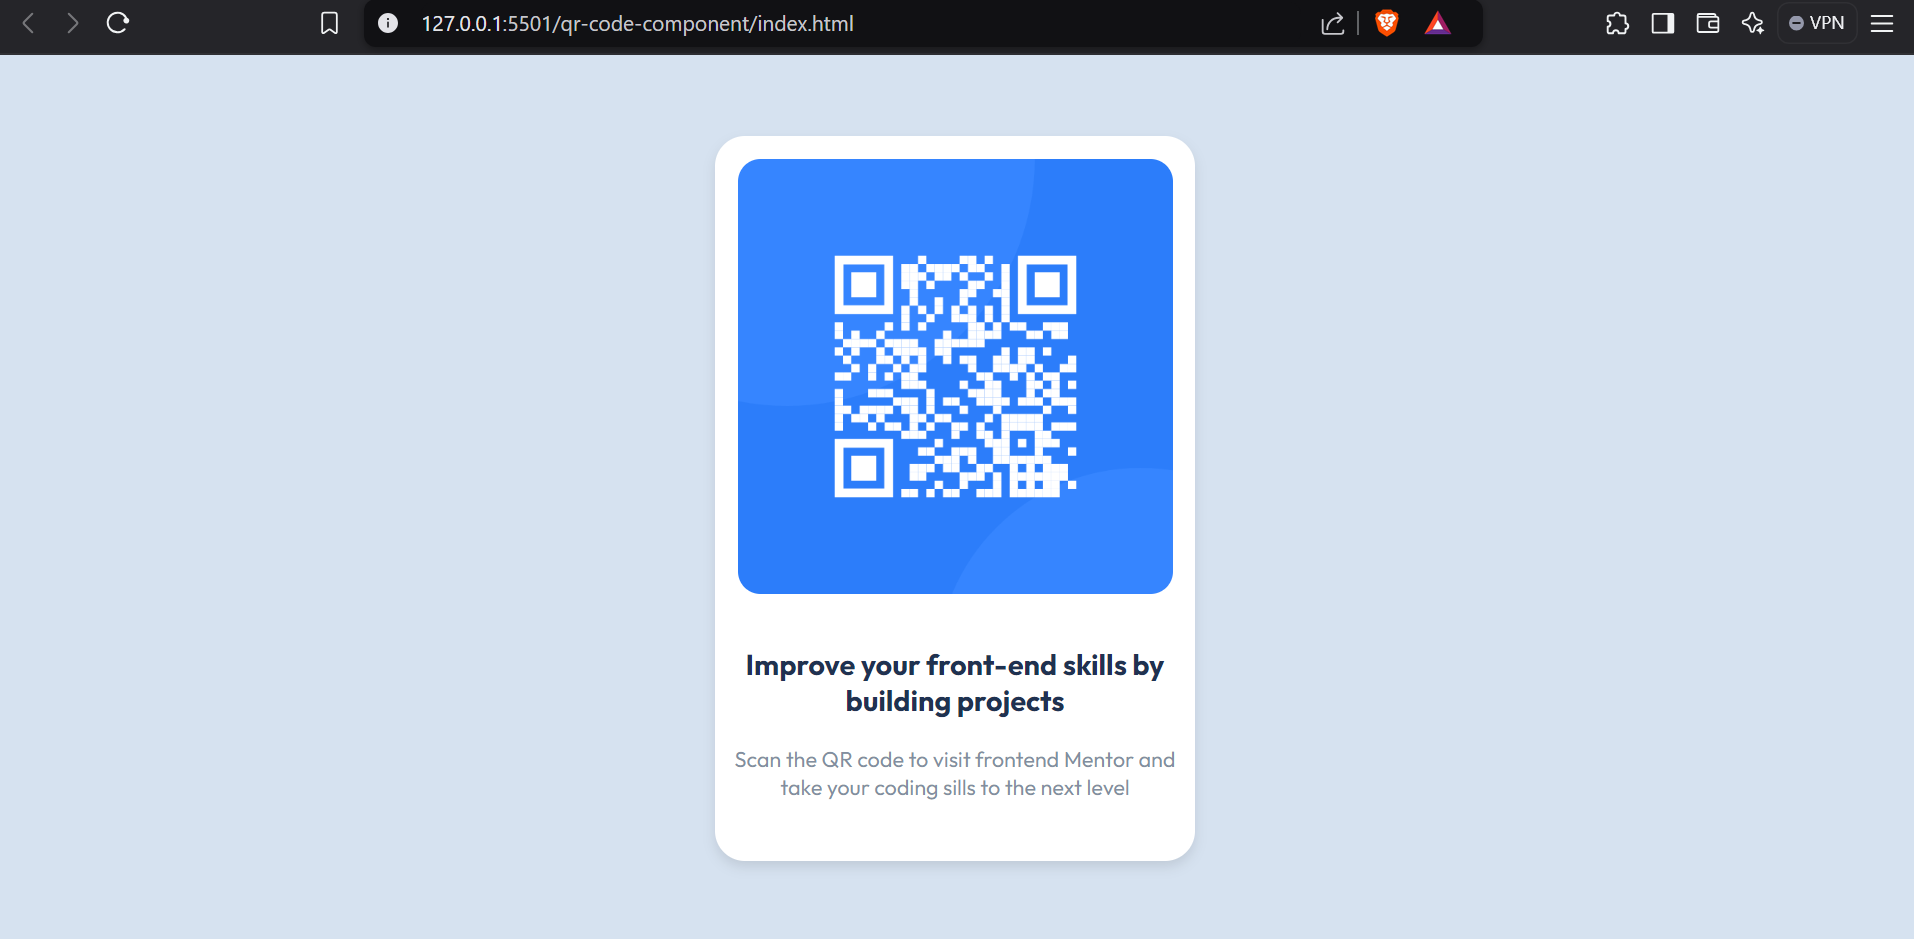
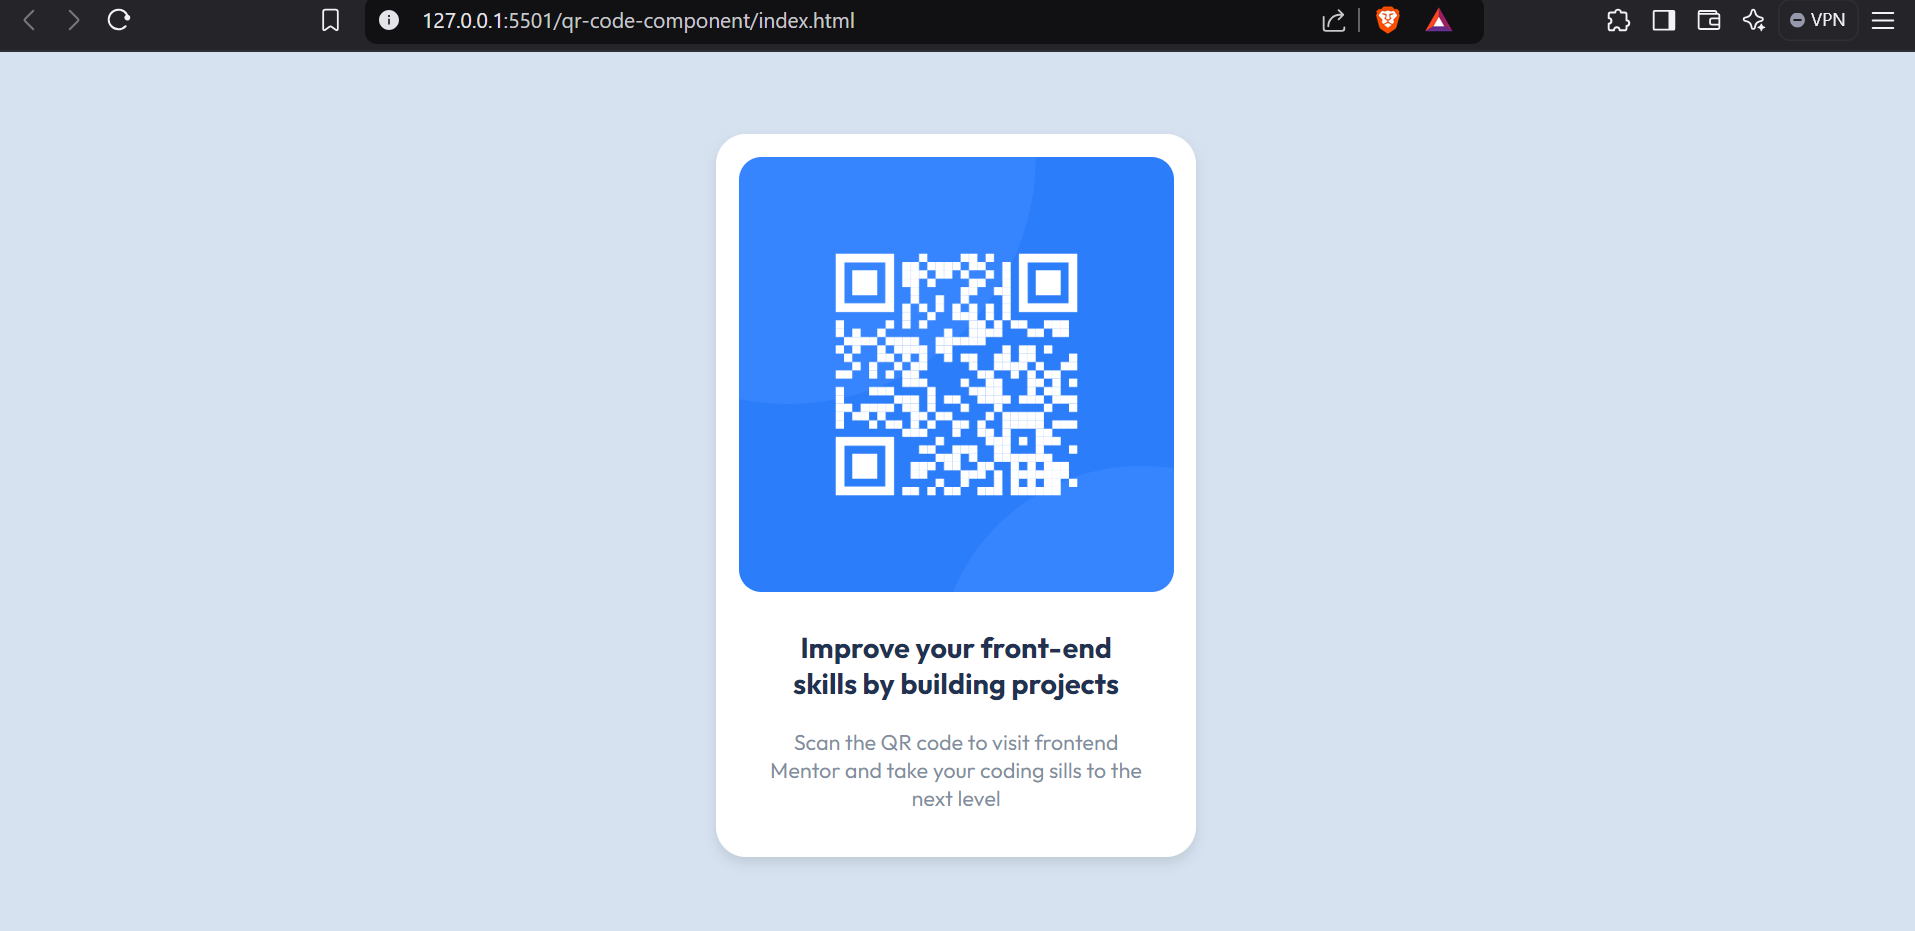
updated styles

diff --git a/index.html b/index.html
@@ -43,7 +43,7 @@
       height: auto;
     }
     h1{
-      padding-top: 20px ;
+      padding: 10px 18px ;
       margin: 0px 15px 0px;
       font-size: 1.2rem;
       font-weight: 700;
@@ -51,7 +51,7 @@
       text-align: center;
     }
     h2{
-      margin: 18px 10px 40px  ;
+      padding: 8px 30px 30px;
       text-align: center;
       font-size: 0.9rem;
       font-weight: 400;
